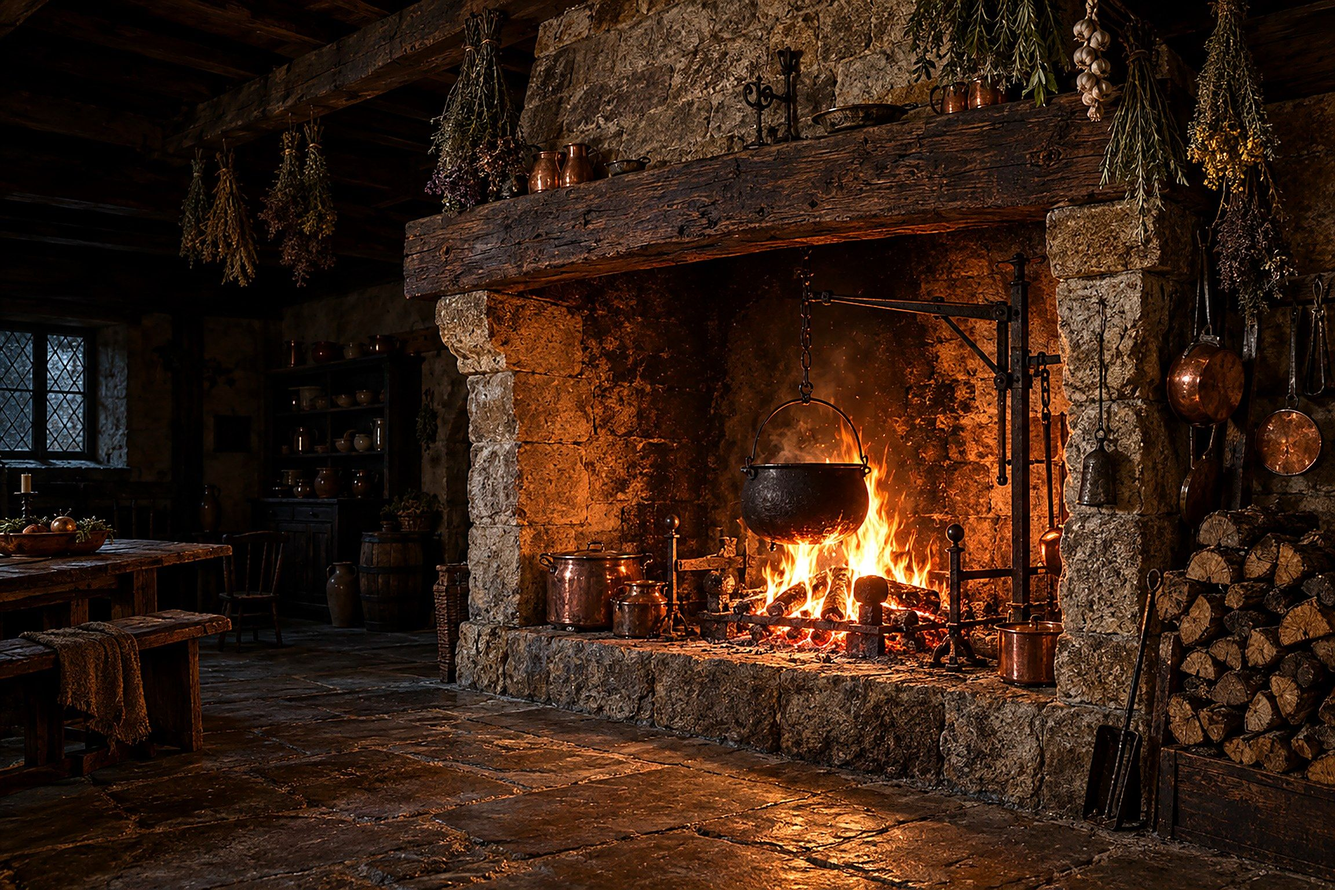
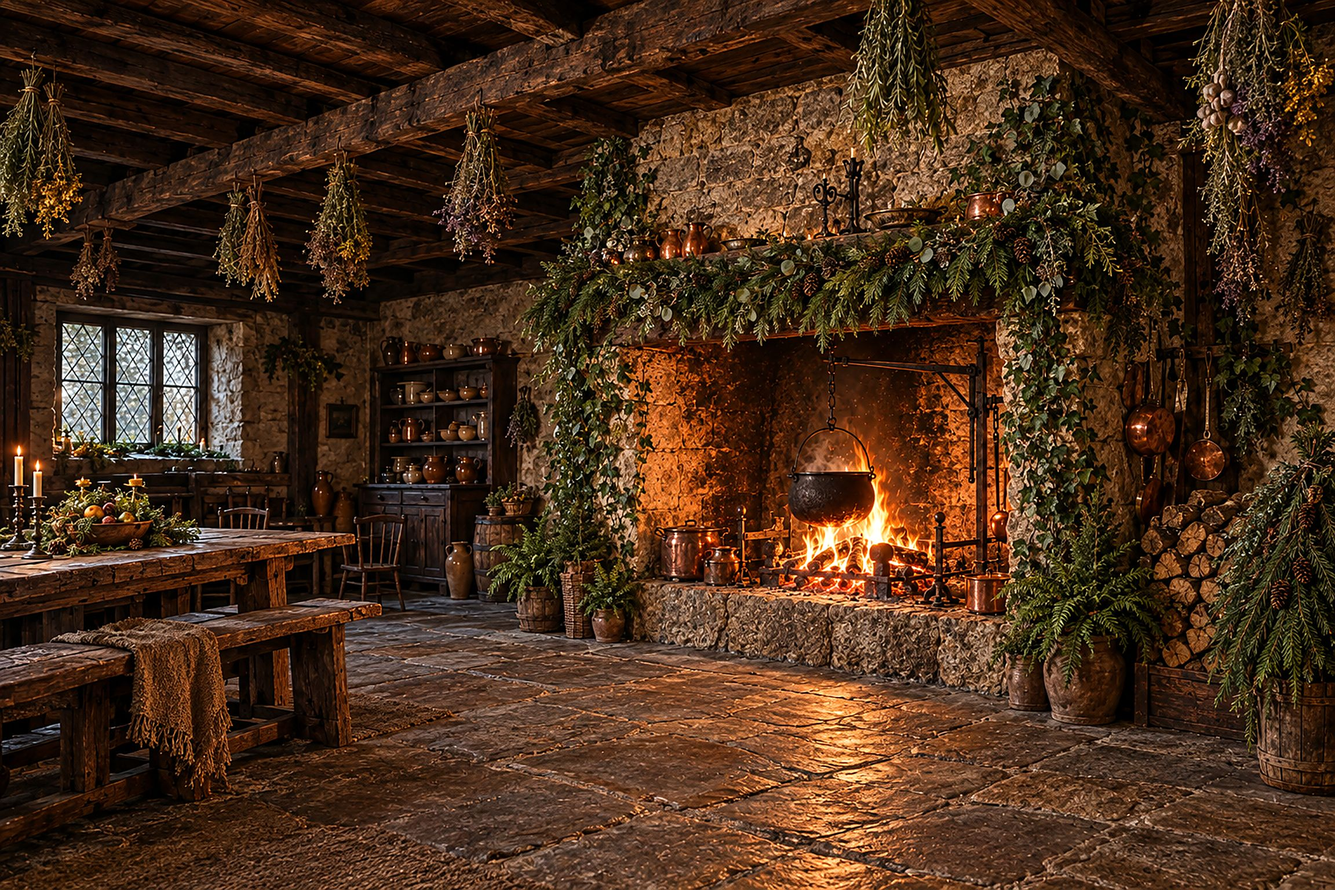
Wider hearth photo with greenery

diff --git a/assets/css/style.scss b/assets/css/style.scss
@@ -326,7 +326,7 @@ a:hover .link-arrow span { transform: translateX(6px); }
 /* ===== Shay's Hearth additions ===== */
 .hero-photo { padding-left: 0; padding-right: 0; min-height: 100svh; color: #f3e7d3; }
 .hero-media { position: absolute; inset: 0; z-index: -2; overflow: hidden; background: #0b0705; }
-.hero-media img { width: 100%; height: 100%; object-fit: cover; object-position: 62% 55%; transform: scale(1.01);
+.hero-media img { width: 100%; height: 100%; object-fit: cover; object-position: 68% 55%; transform: scale(1.01);
   animation: kenburns 40s ease-in-out infinite alternate; }
 @keyframes kenburns { to { transform: scale(1.06) translate(-1%, -.5%); } }
 .hero-photo::before { content: ""; position: absolute; inset: 0; z-index: -1;
@@ -395,7 +395,7 @@ body:has(.hero-photo) .grain { opacity: .03; }
 /* Story */
 .story { display: grid; grid-template-columns: 1.1fr 1fr; gap: 64px; align-items: center; }
 .story-img { border-radius: 28px; overflow: hidden; aspect-ratio: 4 / 5; box-shadow: var(--shadow); }
-.story-img img { width: 100%; height: 100%; object-fit: cover; object-position: 66% 50%; }
+.story-img img { width: 100%; height: 100%; object-fit: cover; object-position: 60% 50%; }
 .story-body blockquote { margin: 24px 0; padding: 0; font-family: $display; font-size: clamp(2.2rem, 4.4vw, 3.8rem); line-height: 1.03; letter-spacing: -0.02em; }
 .story-body blockquote p { margin: 0; }
 .story-body > p { color: var(--muted); font-size: 18px; font-weight: 300; margin: 0 0 24px; }
@@ -492,7 +492,7 @@ body:has(.hero-photo) .grain { opacity: .03; }
   .add-btn { padding: 5px; }
   .price { font-size: 1.25rem; }
   .hero-photo::before { background: linear-gradient(180deg, rgba(10,6,4,.25) 0%, rgba(10,6,4,.35) 35%, rgba(10,6,4,.8) 75%, var(--bg)); }
-  .hero-media img { object-position: 70% 50%; }
+  .hero-media img { object-position: 66% 50%; }
   .nav nav a { padding: 8px 8px; font-size: 13px; }
   .icon-btn { width: 34px; height: 34px; margin-left: 2px; }
 }

diff --git a/_layouts/home.html b/_layouts/home.html
@@ -72,7 +72,7 @@ layout: default
 </section>
 
 <section class="section story">
-  <div class="story-img reveal"><img src="{{ '/assets/img/hearth.jpg' | relative_url }}" alt="A giant old stone hearth with a fire burning under a hanging cauldron" loading="lazy"></div>
+  <div class="story-img reveal"><img src="{{ '/assets/img/hearth.jpg' | relative_url }}" alt="A giant old stone hearth draped in pine garland and ivy, with a fire burning under a hanging cauldron" loading="lazy"></div>
   <div class="story-body reveal">
     <span class="kicker">03 &mdash; Our story</span>
     {{ content }}
